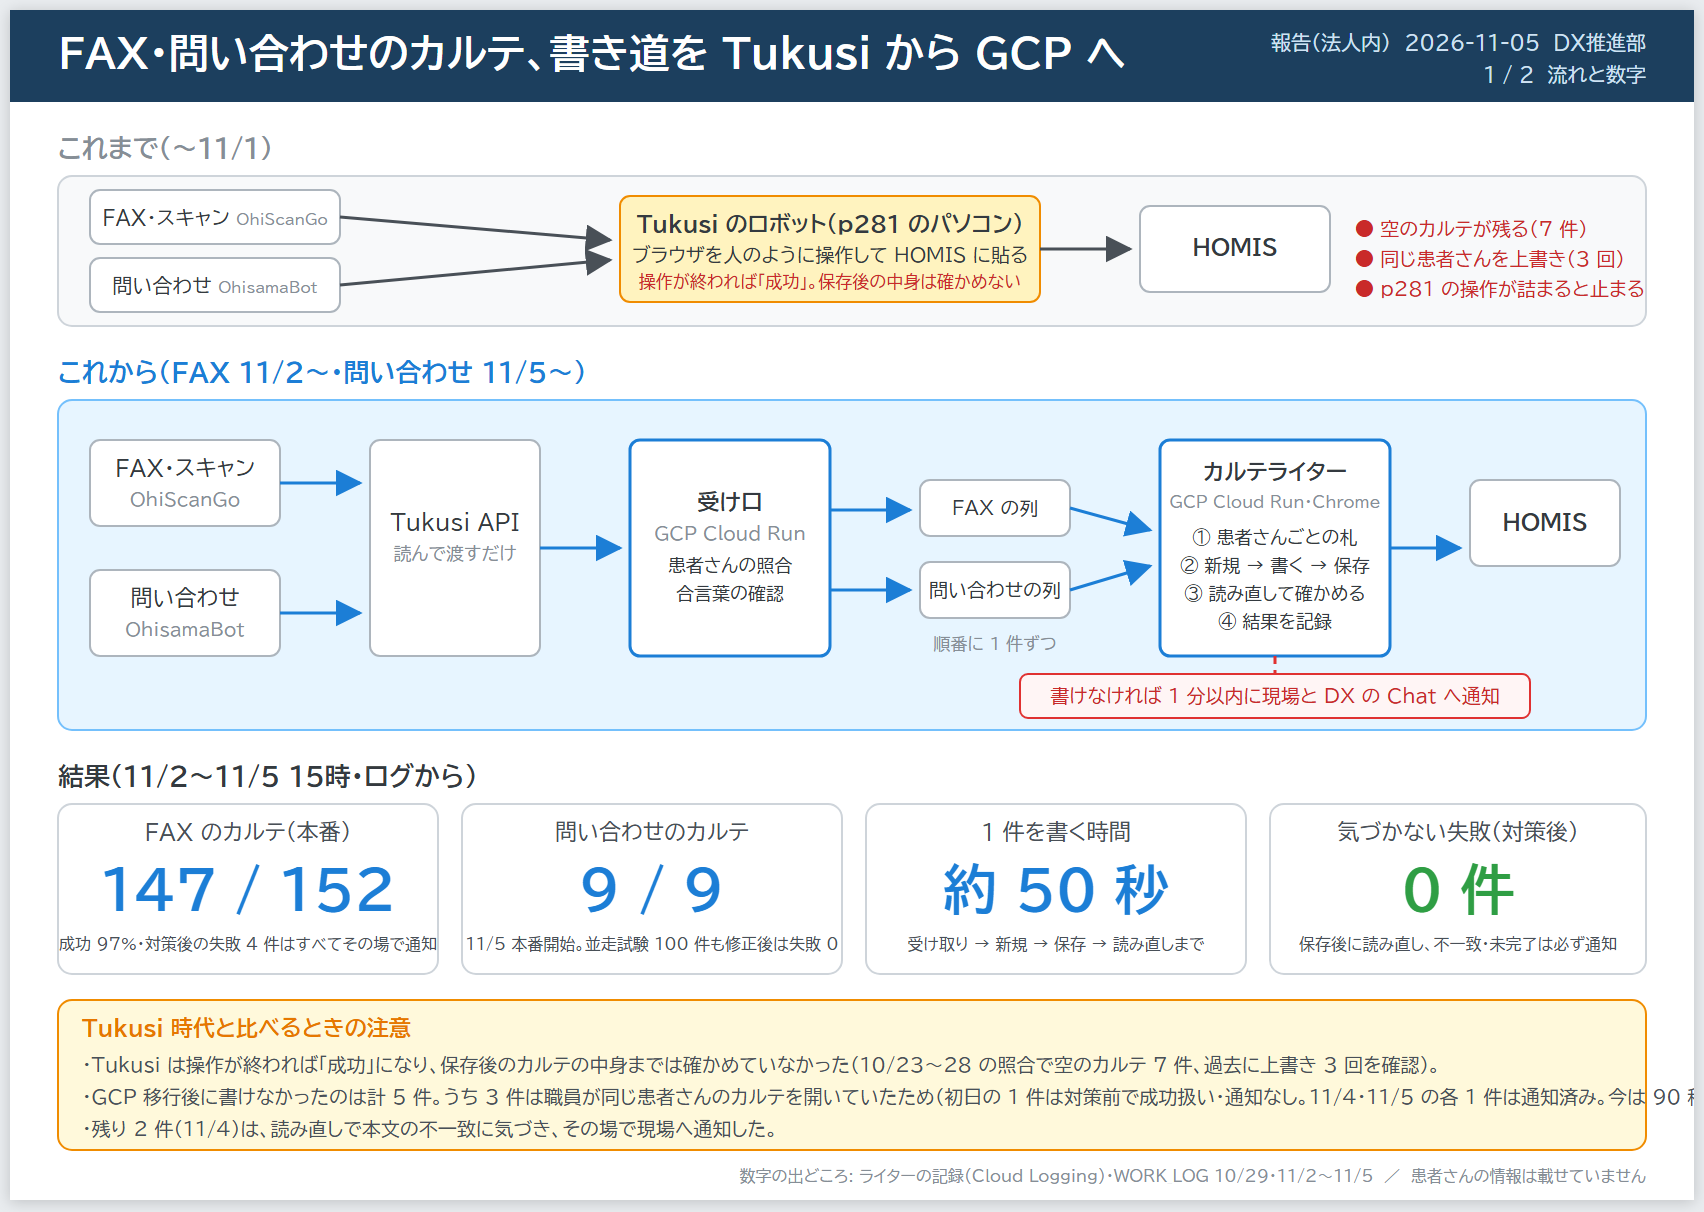
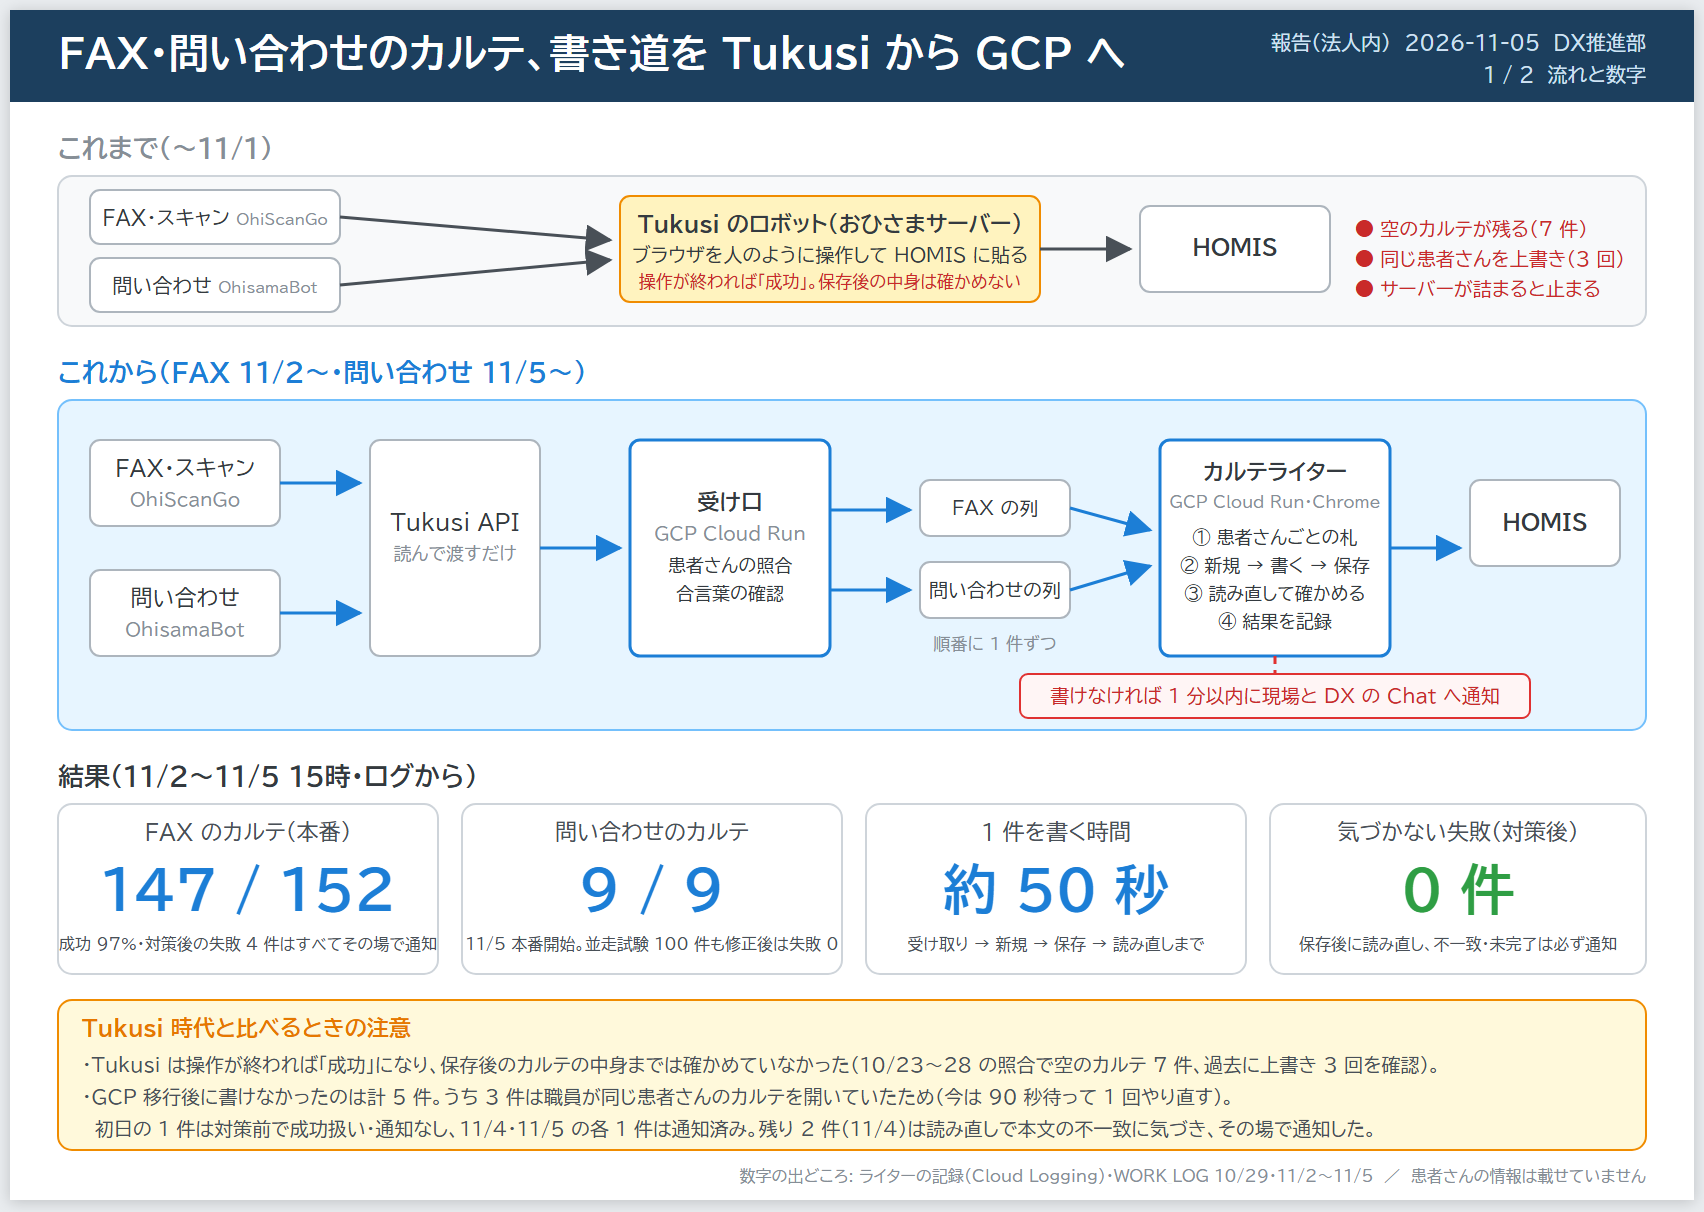
報告 v1.6: ロボットの場所をおひさまサーバーに訂正・冒頭の要点を2行に

Changed region(s): [[0.0311, 0.8853, 0.9953, 0.9464], [0.3732, 0.1526, 0.591, 0.2137], [0.8087, 0.2137, 0.9642, 0.2442]]

diff --git a/docs/報告_カルテライター_GCP移行/報告_カルテライター_GCP移行.html b/docs/報告_カルテライター_GCP移行/報告_カルテライター_GCP移行.html
@@ -10,7 +10,7 @@
   html,body{margin:0;background:#e9ecef;font-family:'BIZ UDPGothic','BIZ UDPゴシック','Meiryo',sans-serif;color:#343a40}
   .wrap{max-width:1684px;margin:0 auto;padding:16px}
   .sum{background:#fff;border-left:6px solid #1c7ed6;border-radius:8px;padding:14px 20px;margin-bottom:16px;line-height:1.7;font-size:17px}
-  .sum ul{margin:6px 0 0 20px;padding:0}
+  .sum .d{float:right;color:#868e96;font-size:14px}
   svg{width:100%;height:auto;display:block;box-shadow:0 2px 14px rgba(0,0,0,.18);margin-bottom:18px}
   #page1{background:#fff}
   #page2{background:#fffdf6}
@@ -23,13 +23,9 @@
 <body>
 <div class="wrap">
 <div class="sum">
-  <strong>FAX・問い合わせのカルテ、書き道を Tukusi から GCP へ（報告・法人内）</strong>　2026-11-05　DX推進部
-  <ul>
-    <li>FAX（11/2〜）と問い合わせ（11/5〜）のカルテ書き込みを、Tukusi のブラウザ操作から GCP のカルテライターへ移した。</li>
-    <li>書いたあとに読み直して確かめ、書けなければ 1 分以内に現場と DX の Chat へ通知する。対策後に気づかない失敗は 0 件。</li>
-    <li>11/2〜11/5 の FAX 本番 152 件のうち成功 147 件（97%）。問い合わせ本番は 9 件すべて成功。1 件約 50 秒。</li>
-    <li>カルテライターも、画面を表示しない Chrome で HOMIS の画面を人と同じ順に操作する「ロボット」。動く場所をクラウドに移し、読み直しと守りを足した。HOMIS の裏の入口へ直接書く方式（JS）は使わない（11/5 決定）。次は、入口を決まった形の JSON にそろえる（書き方はロボットのまま）。</li>
-  </ul>
+  <strong>FAX（11/2〜）と問い合わせ（11/5〜）のカルテを、GCP のカルテライターで書くようにしました。</strong><br>
+  書き方は今までどおり画面を操作するロボット。次は、受け取る形を共通の JSON にそろえます。
+  <span class="d">2026-11-05　DX推進部（法人内）</span>
 </div>
 <svg id="page1" viewBox="0 0 1684 1190" xmlns="http://www.w3.org/2000/svg" role="img" aria-label="カルテの書き道を Tukusi から GCP へ変えた報告 1枚目 流れと数字"
      font-family="'BIZ UDPGothic','BIZ UDPゴシック','Meiryo',sans-serif">
@@ -59,7 +55,7 @@
     <line x1="330" y1="207" x2="600" y2="230" stroke="#495057" stroke-width="3" marker-end="url(#ar)"/>
     <line x1="330" y1="275" x2="600" y2="250" stroke="#495057" stroke-width="3" marker-end="url(#ar)"/>
     <rect x="610" y="186" width="420" height="106" rx="10" fill="#fff3bf" stroke="#f08c00" stroke-width="2"/>
-    <text x="820" y="222" text-anchor="middle" font-weight="700">Tukusi のロボット（p281 のパソコン）</text>
+    <text x="820" y="222" text-anchor="middle" font-weight="700">Tukusi のロボット（おひさまサーバー）</text>
     <text x="820" y="252" text-anchor="middle" font-size="19">ブラウザを人のように操作して HOMIS に貼る</text>
     <text x="820" y="278" text-anchor="middle" font-size="17" fill="#c92a2a">操作が終われば「成功」。保存後の中身は確かめない</text>
     <line x1="1030" y1="239" x2="1120" y2="239" stroke="#495057" stroke-width="3" marker-end="url(#ar)"/>
@@ -67,7 +63,7 @@
     <text x="1225" y="245" text-anchor="middle" font-weight="700">HOMIS</text>
     <text x="1345" y="226" font-size="19" fill="#c92a2a">● 空のカルテが残る（7 件）</text>
     <text x="1345" y="256" font-size="19" fill="#c92a2a">● 同じ患者さんを上書き（3 回）</text>
-    <text x="1345" y="286" font-size="19" fill="#c92a2a">● p281 の操作が詰まると止まる</text>
+    <text x="1345" y="286" font-size="19" fill="#c92a2a">● サーバーが詰まると止まる</text>
   </g>
 
   <!-- 後 -->
@@ -232,8 +228,8 @@
     </g>
     <g>
       <circle cx="916" cy="574" r="14" fill="#8ce99a" stroke="#3b3b3b" stroke-width="2"/><text x="916" y="581" font-size="18" text-anchor="middle">3</text>
-      <text x="944" y="582" font-size="24" fill="#2b8a3e">カルテを書く処理を p281 から切り離した</text>
-      <text x="944" y="614">p281 のブラウザ操作が詰まっても、書き込み側はクラウドで動き続ける。</text>
+      <text x="944" y="582" font-size="24" fill="#2b8a3e">カルテを書く処理をおひさまサーバーから切り離した</text>
+      <text x="944" y="614">おひさまサーバーのブラウザ操作が詰まっても、書き込み側はクラウドで動き続ける。</text>
     </g>
     <g>
       <circle cx="916" cy="662" r="14" fill="#8ce99a" stroke="#3b3b3b" stroke-width="2"/><text x="916" y="669" font-size="18" text-anchor="middle">4</text>
@@ -263,6 +259,8 @@
 </svg>
 <div class="hist">
   <h2>更新履歴</h2>
+  2026-11-05　v1.6　冒頭の要点を 2 行に絞った（数字は図の中だけに）。<br>
+  2026-11-05　v1.5　Tukusi のロボットが動く場所を「p281 のパソコン」から「おひさまサーバー」に訂正（4 か所）。<br>
   2026-11-05　v1.4　要点に「カルテライターも画面を操作するロボット。裏の入口へ直接書く方式（JS）は使わない（11/5 決定）。次は入口を決まった形の JSON にそろえる」を追記。<br>
   2026-11-05　v1.3　2 枚を 1 枚物の HTML にまとめた（印刷すると A4 横 2 枚）。<br>
   2026-11-05　v1.2　初版を公開（黒ヤギ 2 回の査読【進めてよい】）。流れの図・結果の数字・Tukusi 時代と比べるときの注意／道のり・乗り越えた課題・移行してよくなったところ・これから。

diff --git a/docs/報告_カルテライター_GCP移行/報告_カルテライター_GCP移行_1_流れと数字.html b/docs/報告_カルテライター_GCP移行/報告_カルテライター_GCP移行_1_流れと数字.html
@@ -45,7 +45,7 @@
     <line x1="330" y1="207" x2="600" y2="230" stroke="#495057" stroke-width="3" marker-end="url(#ar)"/>
     <line x1="330" y1="275" x2="600" y2="250" stroke="#495057" stroke-width="3" marker-end="url(#ar)"/>
     <rect x="610" y="186" width="420" height="106" rx="10" fill="#fff3bf" stroke="#f08c00" stroke-width="2"/>
-    <text x="820" y="222" text-anchor="middle" font-weight="700">Tukusi のロボット（p281 のパソコン）</text>
+    <text x="820" y="222" text-anchor="middle" font-weight="700">Tukusi のロボット（おひさまサーバー）</text>
     <text x="820" y="252" text-anchor="middle" font-size="19">ブラウザを人のように操作して HOMIS に貼る</text>
     <text x="820" y="278" text-anchor="middle" font-size="17" fill="#c92a2a">操作が終われば「成功」。保存後の中身は確かめない</text>
     <line x1="1030" y1="239" x2="1120" y2="239" stroke="#495057" stroke-width="3" marker-end="url(#ar)"/>
@@ -53,7 +53,7 @@
     <text x="1225" y="245" text-anchor="middle" font-weight="700">HOMIS</text>
     <text x="1345" y="226" font-size="19" fill="#c92a2a">● 空のカルテが残る（7 件）</text>
     <text x="1345" y="256" font-size="19" fill="#c92a2a">● 同じ患者さんを上書き（3 回）</text>
-    <text x="1345" y="286" font-size="19" fill="#c92a2a">● p281 の操作が詰まると止まる</text>
+    <text x="1345" y="286" font-size="19" fill="#c92a2a">● サーバーが詰まると止まる</text>
   </g>
 
   <!-- 後 -->

diff --git a/docs/報告_カルテライター_GCP移行/報告_カルテライター_GCP移行_2_グラレコ.html b/docs/報告_カルテライター_GCP移行/報告_カルテライター_GCP移行_2_グラレコ.html
@@ -101,8 +101,8 @@
     </g>
     <g>
       <circle cx="916" cy="574" r="14" fill="#8ce99a" stroke="#3b3b3b" stroke-width="2"/><text x="916" y="581" font-size="18" text-anchor="middle">3</text>
-      <text x="944" y="582" font-size="24" fill="#2b8a3e">カルテを書く処理を p281 から切り離した</text>
-      <text x="944" y="614">p281 のブラウザ操作が詰まっても、書き込み側はクラウドで動き続ける。</text>
+      <text x="944" y="582" font-size="24" fill="#2b8a3e">カルテを書く処理をおひさまサーバーから切り離した</text>
+      <text x="944" y="614">おひさまサーバーのブラウザ操作が詰まっても、書き込み側はクラウドで動き続ける。</text>
     </g>
     <g>
       <circle cx="916" cy="662" r="14" fill="#8ce99a" stroke="#3b3b3b" stroke-width="2"/><text x="916" y="669" font-size="18" text-anchor="middle">4</text>
